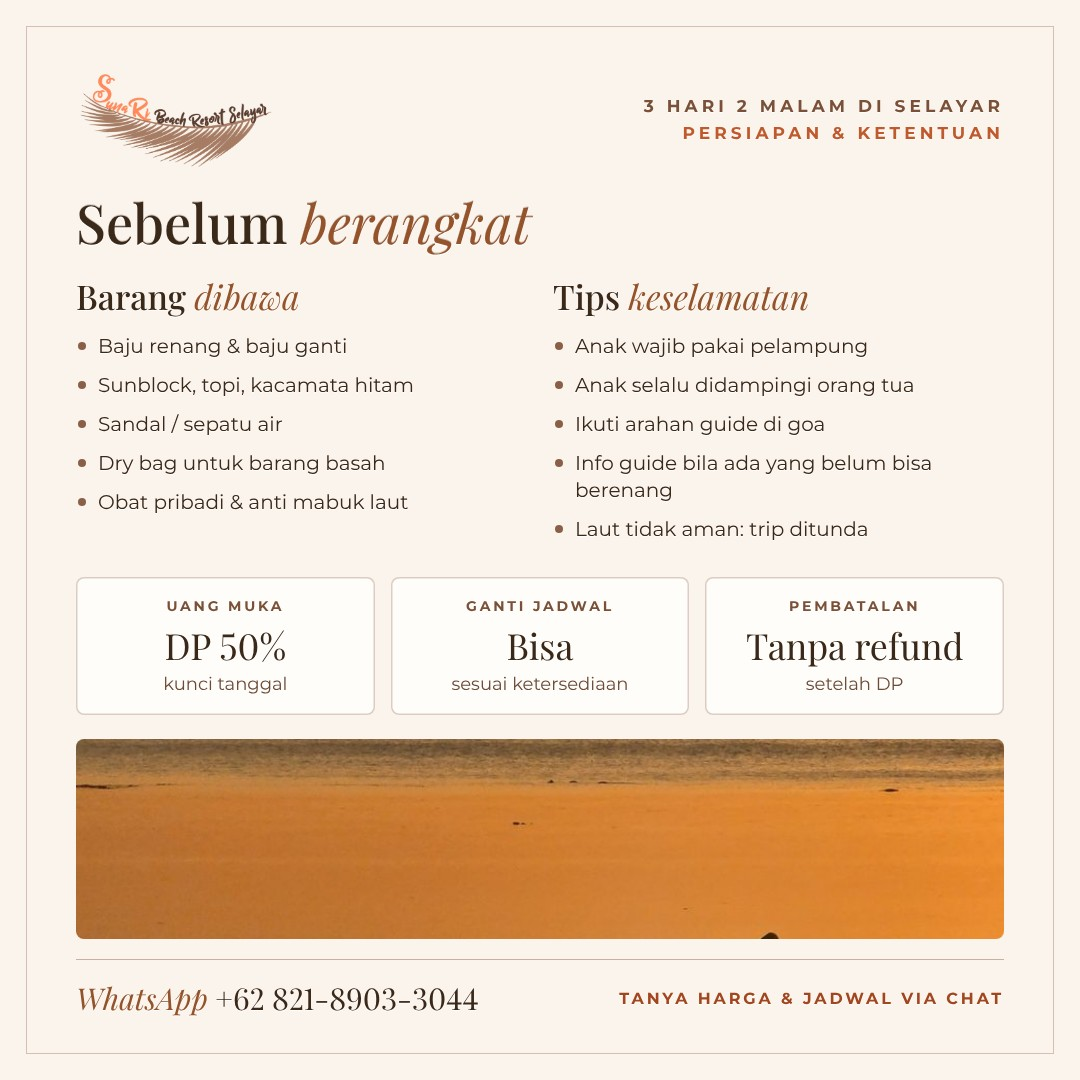
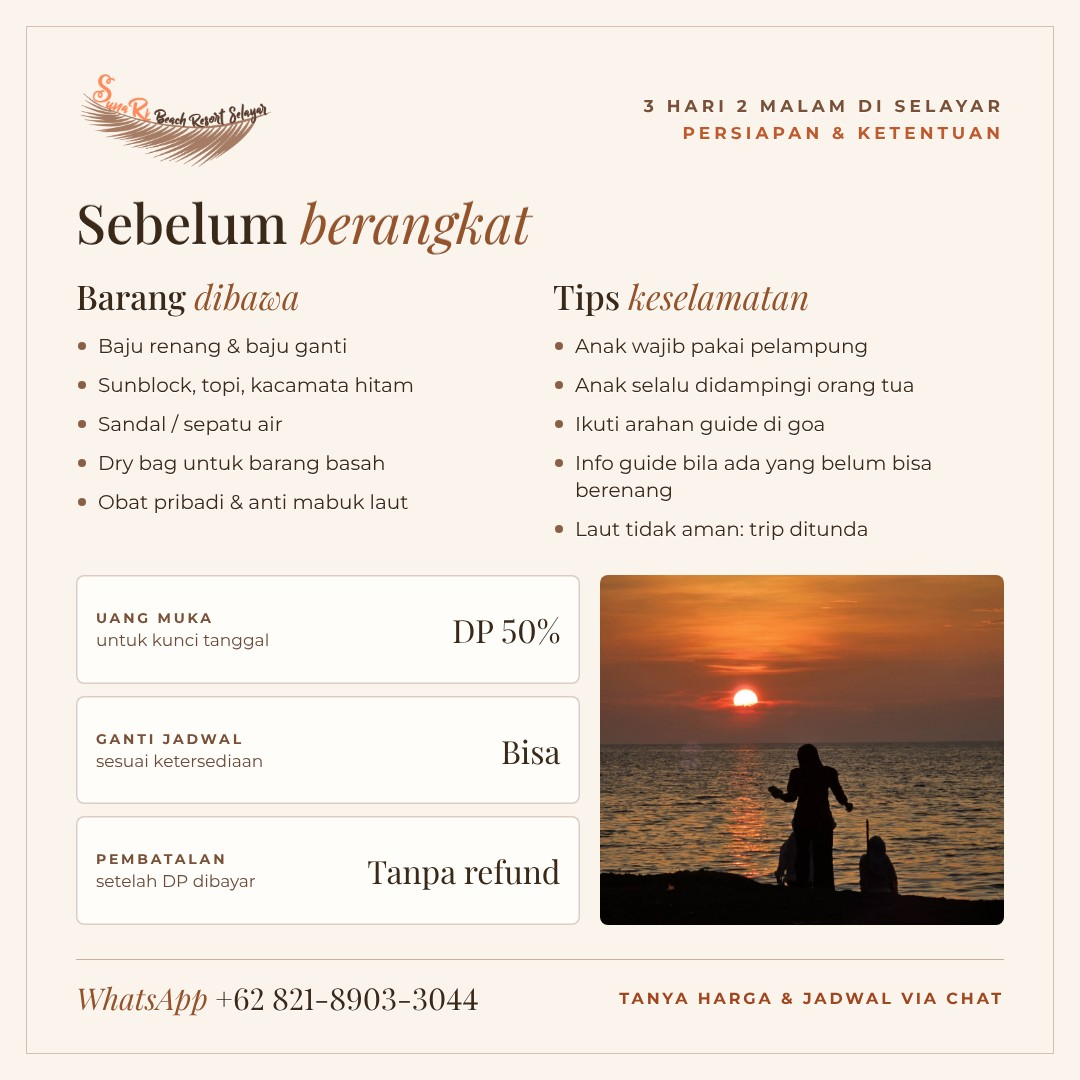
Katalog WA gambar 9: foto siluet tamu & sunset, ketentuan jadi kolom kiri
Claude-Session: https://claude.ai/code/session_01KeLc5eBGUnchV5ne3wvwHX

Changed region(s): [[0.0611, 0.5194, 0.9472, 0.8861], [0.0917, 0.55, 0.275, 0.6417], [0.3361, 0.5194, 0.3667, 0.55]]

diff --git a/whatsapp/katalog-paket-bahuluang/katalog.html b/whatsapp/katalog-paket-bahuluang/katalog.html
@@ -101,6 +101,13 @@ body{background:#ccc;font-family:Montserrat,sans-serif;color:#3A2819;-webkit-fon
 .c2 h3 i{color:#94532B}
 .c2 ul{list-style:none} .c2 li{font-size:20px;line-height:1.35;padding:6px 0 6px 22px;position:relative}
 .c2 li::before{content:"";position:absolute;left:2px;top:15px;width:8px;height:8px;border-radius:50%;background:#8A5F48}
+.tb{display:grid;grid-template-columns:1.25fr 1fr;gap:20px;margin-top:26px;height:350px}
+.tl2{display:flex;flex-direction:column;gap:12px}
+.tl2>div{flex:1;display:flex;align-items:center;justify-content:space-between;gap:12px;padding:0 20px;border-radius:8px;background:#FFFDF9;box-shadow:inset 0 0 0 1.5px rgba(138,95,72,.3)}
+.tl2 .k{font-size:14px;font-weight:700;letter-spacing:.2em;color:#7A5038}
+.tl2 .s{font-size:17px;color:#6B4A37;margin-top:3px}
+.tl2 .v{font-family:'Playfair Display',serif;font-size:32px;white-space:nowrap}
+.tp{border-radius:8px;overflow:hidden}
 .terms{display:grid;grid-template-columns:repeat(3,1fr);gap:16px;margin-top:28px}
 .terms>div{text-align:center;padding:20px 12px;border-radius:8px;background:#FFFDF9;box-shadow:inset 0 0 0 1.5px rgba(138,95,72,.3)}
 .terms .k{font-size:14px;font-weight:700;letter-spacing:.2em;color:#7A5038}
@@ -109,4 +116,4 @@ body{background:#ccc;font-family:Montserrat,sans-serif;color:#3A2819;-webkit-fon
 </style></head><body><div class="sq cover"><div class="frame"></div><div class="bg"><img class="ph" src="../../services/paket-photos/hero.jpg" style="object-position:center 55%"></div><div class="shade"></div>
 <div class="top"><img src="../../assets/logo-sunari-cream.png"></div>
 <div class="txt"><div class="k">SUNARI BEACH RESORT SELAYAR</div><div class="t serif">3 Hari 2 Malam<br>di Selayar</div><div class="s serif">Sehari ke Bahuluang</div>
-<div class="chips"><span>Keluarga 4 Dewasa + 2 Anak</span><span>Semua sudah termasuk</span></div></div></div><div class="sq "><div class="frame"></div><div class="pad"><div class="head"><img src="../../assets/logo-sunari-color.png"><div class="caps">3 Hari 2 Malam di Selayar<br><span style="color:#C0592C">Yang termasuk</span></div></div><div class="h1 serif" style="font-size:58px;margin-top:30px">Semua sudah <span class="it">kami siapkan</span></div><div class="grid2"><div class="it2"><div class="ic "><svg viewBox="0 0 24 24"><path d="M3 11l9-7 9 7"/><path d="M5 10v10h14V10"/><path d="M10 20v-6h4v6"/></svg></div><div><b>Family Superior Bungalow</b><span>2 malam, rumah dua lantai</span></div></div><div class="it2"><div class="ic "><svg viewBox="0 0 24 24"><path d="M7 3v8M5 3v5a2 2 0 004 0V3M7 11v10"/><path d="M17 3c-2 0-3 3-3 6s1 4 3 4v8"/></svg></div><div><b>Welcome drink &amp; 8x makan</b><span>Breakfast, lunch, afternoon tea, dinner</span></div></div><div class="it2"><div class="ic b"><svg viewBox="0 0 24 24"><path d="M3 16v-4l2-5h14l2 5v4z"/><circle cx="7.5" cy="17" r="1.8"/><circle cx="16.5" cy="17" r="1.8"/></svg></div><div><b>Antar-jemput</b><span>Bandara / pelabuhan, pergi &amp; pulang</span></div></div><div class="it2"><div class="ic b"><svg viewBox="0 0 24 24"><path d="M3 15h18l-3 5H6z"/><path d="M12 3v12M12 4l6 9h-6"/></svg></div><div><b>Kapal &amp; mobil trip</b><span>Resort ⇄ dermaga ⇄ Pulau Bahuluang</span></div></div><div class="it2"><div class="ic c"><svg viewBox="0 0 24 24"><circle cx="12" cy="8" r="4"/><path d="M4 21c0-4 4-6 8-6s8 2 8 6"/></svg></div><div><b>Guide &amp; tim</b><span>Mendampingi sepanjang trip</span></div></div><div class="it2"><div class="ic c"><svg viewBox="0 0 24 24"><path d="M3 12c3-5 10-5 14 0-4 5-11 5-14 0z"/><path d="M17 12l4-3v6z"/></svg></div><div><b>Alat snorkeling &amp; paddleboard</b><span>Masker, snorkel, fins, pelampung</span></div></div><div class="it2"><div class="ic "><svg viewBox="0 0 24 24"><path d="M3 8a2 2 0 002-2h14a2 2 0 002 2v2a2 2 0 000 4v2a2 2 0 00-2 2H5a2 2 0 00-2-2v-2a2 2 0 000-4z"/><path d="M14 6v12"/></svg></div><div><b>Tiket masuk</b><span>Semua lokasi wisata</span></div></div><div class="it2"><div class="ic "><svg viewBox="0 0 24 24"><rect x="3" y="7" width="18" height="13" rx="2"/><circle cx="12" cy="13.5" r="3.5"/><path d="M8 7l1.5-3h5L16 7"/></svg></div><div><b>Dokumentasi</b><span>Drone, DSLR, underwater · file mentah via Google Drive</span></div></div></div></div><div class="foot"><div class="wa"><i>WhatsApp</i> +62 821-8903-3044</div><div class="tag">Tanya harga &amp; jadwal via chat</div></div></div><div class="sq "><div class="frame"></div><div class="pad"><div class="head"><img src="../../assets/logo-sunari-color.png"><div class="caps">Sehari ke Bahuluang<br><span style="color:#C0592C">Destinasi trip</span></div></div><div class="h1 serif" style="font-size:58px;margin-top:26px">Empat sorotan <span class="it">Pulau Bahuluang</span></div><div class="g4"><div><img class="ph" src="../../services/paket-photos/pantai.jpg" style="object-position:center 50%"><div class="lbl">Pantai Bone Bakka</div></div><div><img class="ph" src="../../services/paket-photos/gua.jpg" style="object-position:center 60%"><div class="lbl">Goa Lipang</div></div><div><img class="ph" src="../../services/paket-photos/karang.jpg" style="object-position:center 55%"><div class="lbl">Makam Karang</div></div><div><img class="ph" src="../../services/paket-photos/pasir.jpg" style="object-position:center 70%"><div class="lbl">Pasir Timbul</div></div></div></div><div class="foot"><div class="wa"><i>WhatsApp</i> +62 821-8903-3044</div><div class="tag">Tanya harga &amp; jadwal via chat</div></div></div><div class="sq "><div class="frame"></div><div class="pad"><div class="head"><img src="../../assets/logo-sunari-color.png"><div class="caps">3 Hari 2 Malam di Selayar<br><span style="color:#C0592C">Kedatangan Hari 1</span></div></div><div class="h1 serif" style="font-size:58px;margin-top:26px">Pilih <span class="it">cara tiba</span></div><div class="ab"><div class="opt a"><div class="tg"><b>A</b>Pesawat</div><div class="tm">07.00 – 08.00</div><ul><li>Dijemput di Bandara H. Aroeppala</li><li>Kamar siap: langsung check-in</li><li>Belum siap: titip barang &amp; santai di pantai</li><li>Welcome drink, lunch 12.30</li></ul></div><div class="or"><span>atau</span></div><div class="opt b"><div class="tg"><b>B</b>Ferri dari Bira</div><div class="tm">± 12.00</div><ul><li>Dijemput di Pelabuhan Pamatata</li><li>Mobil langsung ke resort</li><li>Welcome drink &amp; lunch setibanya</li></ul></div></div><div class="joinb"><span>▼ SETELAH TIBA, JADWAL SAMA UNTUK SEMUA TAMU</span></div><div class="note" style="margin-top:22px">Check-in <b>saat kamar siap</b>, paling lambat 14.00.</div></div><div class="foot"><div class="wa"><i>WhatsApp</i> +62 821-8903-3044</div><div class="tag">Tanya harga &amp; jadwal via chat</div></div></div><div class="sq "><div class="frame"></div><div class="pad"><div class="head"><img src="../../assets/logo-sunari-color.png"><div class="caps">3 Hari 2 Malam di Selayar<br><span style="color:#C0592C">Alur trip</span></div></div><div class="h1 serif" style="font-size:58px;margin-top:26px">Dari tiba <span class="it">sampai pulang</span></div><div class="days"><div class="day"><div class="hd"><span>HARI</span><b>1</b><span>TIBA &amp; SANTAI</span></div><ul><li class="k">Tiba: pesawat 07.00–08.00 atau ferri dari Bira ±12.00</li><li class="">Welcome drink &amp; lunch</li><li class="">Check-in saat kamar siap</li><li class="">Senja di pantai</li><li class="">Dinner</li></ul></div><div class="day"><div class="hd"><span>HARI</span><b>2</b><span>TRIP BAHULUANG</span></div><ul><li class="">07.00 breakfast, 08.00 berangkat</li><li class="k">Pantai Bone Bakka</li><li class="k">Goa Lipang</li><li class="k">Makam Karang</li><li class="k">Pasir Timbul</li><li class="">Afternoon tea &amp; dinner</li></ul></div><div class="day"><div class="hd"><span>HARI</span><b>3</b><span>PULANG</span></div><ul><li class="">06.00–07.00 check-out</li><li class="">Breakfast take away</li><li class="k">Diantar ke bandara / pelabuhan</li></ul></div></div><div class="note"><b>Catatan:</b> jadwal trip ke Bahuluang menyesuaikan kondisi pasang-surut air laut.</div></div><div class="foot"><div class="wa"><i>WhatsApp</i> +62 821-8903-3044</div><div class="tag">Tanya harga &amp; jadwal via chat</div></div></div><div class="sq "><div class="frame"></div><div class="pad"><div class="head"><img src="../../assets/logo-sunari-color.png"><div class="caps">Sehari ke Bahuluang<br><span style="color:#C0592C">Jadwal Hari 2</span></div></div><div class="h1 serif" style="font-size:54px;margin-top:22px">Sehari penuh <span class="it">di Bahuluang</span></div><div class="tl" style="margin-top:16px"><div class="r "><div class="t">07.00</div><div class="d"></div><div class="x"><b>Breakfast</b> <span>· di resort</span></div></div><div class="r "><div class="t">08.00</div><div class="d"></div><div class="x"><b>Berangkat ke dermaga</b> <span>· briefing keselamatan</span></div></div><div class="r "><div class="t">08.30</div><div class="d"></div><div class="x"><b>Menyeberang</b> <span>· kapal ke Pulau Bahuluang</span></div></div><div class="r k"><div class="t">10.00</div><div class="d"></div><div class="x"><b>Pantai Bone Bakka</b> <span>· paddleboard, foto drone &amp; DSLR</span></div></div><div class="r k"><div class="t">11.30</div><div class="d"></div><div class="x"><b>Goa Lipang</b> <span>· jelajah goa bersama guide</span></div></div><div class="r "><div class="t">13.00</div><div class="d"></div><div class="x"><b>Lunch di pulau</b></div></div><div class="r k"><div class="t">14.00</div><div class="d"></div><div class="x"><b>Makam Karang</b> <span>· snorkeling, kamera underwater</span></div></div><div class="r k"><div class="t">15.00</div><div class="d"></div><div class="x"><b>Pasir Timbul</b> <span>· pasir putih di tengah laut</span></div></div><div class="r "><div class="t">16.00</div><div class="d"></div><div class="x"><b>Kembali ke resort</b></div></div><div class="r "><div class="t">17.00</div><div class="d"></div><div class="x"><b>Afternoon tea</b></div></div><div class="r "><div class="t">19.00</div><div class="d"></div><div class="x"><b>Dinner</b></div></div></div><div class="note" style="margin-top:12px;font-size:19px;padding:10px 18px"><b>Catatan:</b> jadwal menyesuaikan kondisi pasang-surut air laut.</div></div><div class="foot"><div class="wa"><i>WhatsApp</i> +62 821-8903-3044</div><div class="tag">Tanya harga &amp; jadwal via chat</div></div></div><div class="sq "><div class="frame"></div><div class="pad"><div class="head"><img src="../../assets/logo-sunari-color.png"><div class="caps">SunaRi Beach Resort Selayar<br><span style="color:#C0592C">Penginapan</span></div></div><div class="h1 serif" style="font-size:58px;margin-top:26px">Family <span class="it">Superior Bungalow</span></div><div class="room"><div class="p"><img class="ph" src="../../services/paket-photos/bungalow.jpg"></div><div class="p"><img class="ph" src="../../services/paket-photos/kamar.jpg"></div></div><ul class="room" style="display:block;list-style:none;margin-top:20px"><li style="font-size:24px;line-height:1.4;padding:7px 0 7px 30px;position:relative"><span style="position:absolute;left:4px;top:18px;width:11px;height:11px;border-radius:50%;background:#D9703F"></span>Satu rumah dua lantai untuk 4 dewasa + 2 anak</li><li style="font-size:24px;line-height:1.4;padding:7px 0 7px 30px;position:relative"><span style="position:absolute;left:4px;top:18px;width:11px;height:11px;border-radius:50%;background:#D9703F"></span>2 kamar mandi, AC, Wi-Fi, teras pribadi</li><li style="font-size:24px;line-height:1.4;padding:7px 0 7px 30px;position:relative"><span style="position:absolute;left:4px;top:18px;width:11px;height:11px;border-radius:50%;background:#D9703F"></span>Di tepi Pantai Sunari, menghadap senja</li></ul></div><div class="foot"><div class="wa"><i>WhatsApp</i> +62 821-8903-3044</div><div class="tag">Sarapan setiap pagi</div></div></div><div class="sq "><div class="frame"></div><div class="pad"><div class="head"><img src="../../assets/logo-sunari-color.png"><div class="caps">3 Hari 2 Malam di Selayar<br><span style="color:#C0592C">Makan &amp; minum</span></div></div><div class="h1 serif" style="font-size:58px;margin-top:26px">Welcome drink <span class="it">&amp; 8x makan</span></div><table class="meal"><tr><th>Hari</th><th>Breakfast</th><th>Lunch</th><th>Afternoon tea</th><th>Dinner</th></tr><tr><td>Hari 1</td><td><span class="no">–</span></td><td><span class="ok">✓</span></td><td><span class="ok">✓</span></td><td><span class="ok">✓</span></td></tr><tr><td>Hari 2</td><td><span class="ok">✓</span></td><td><span class="ok">✓</span> <span style="font-size:17px">di pulau</span></td><td><span class="ok">✓</span></td><td><span class="ok">✓</span></td></tr><tr><td>Hari 3</td><td><span class="ok">✓</span> <span style="font-size:17px">take away</span></td><td><span class="no">–</span></td><td><span class="no">–</span></td><td><span class="no">–</span></td></tr></table><div class="ph2"><div><img class="ph" src="../../services/paket-photos/bakar.jpg" style="object-position:center 55%"></div><div><img class="ph" src="../../services/paket-photos/resto.jpg" style="object-position:center 60%"></div></div></div><div class="foot"><div class="wa"><i>WhatsApp</i> +62 821-8903-3044</div><div class="tag">Air minum selama trip</div></div></div><div class="sq "><div class="frame"></div><div class="pad"><div class="head"><img src="../../assets/logo-sunari-color.png"><div class="caps">3 Hari 2 Malam di Selayar<br><span style="color:#C0592C">Persiapan &amp; ketentuan</span></div></div><div class="h1 serif" style="font-size:54px;margin-top:22px">Sebelum <span class="it">berangkat</span></div><div class="c2"><div><h3>Barang <i>dibawa</i></h3><ul><li>Baju renang &amp; baju ganti</li><li>Sunblock, topi, kacamata hitam</li><li>Sandal / sepatu air</li><li>Dry bag untuk barang basah</li><li>Obat pribadi &amp; anti mabuk laut</li></ul></div><div><h3>Tips <i>keselamatan</i></h3><ul><li>Anak wajib pakai pelampung</li><li>Anak selalu didampingi orang tua</li><li>Ikuti arahan guide di goa</li><li>Info guide bila ada yang belum bisa berenang</li><li>Laut tidak aman: trip ditunda</li></ul></div></div><div class="terms"><div><div class="k">UANG MUKA</div><div class="v">DP 50%</div><div class="s">kunci tanggal</div></div><div><div class="k">GANTI JADWAL</div><div class="v">Bisa</div><div class="s">sesuai ketersediaan</div></div><div><div class="k">PEMBATALAN</div><div class="v">Tanpa refund</div><div class="s">setelah DP</div></div></div><div style="height:200px;border-radius:8px;overflow:hidden;margin-top:24px"><img class="ph" src="../../services/paket-photos/kayak.jpg" style="object-position:center 50%"></div></div><div class="foot"><div class="wa"><i>WhatsApp</i> +62 821-8903-3044</div><div class="tag">Tanya harga &amp; jadwal via chat</div></div></div><div class="sq "><div class="frame"></div><div class="pad"><div class="head"><img src="../../assets/logo-sunari-color.png"><div class="caps">3 Hari 2 Malam di Selayar<br><span style="color:#C0592C">Cara memesan</span></div></div><div class="h1 serif" style="font-size:58px;margin-top:26px">Pesan dalam <span class="it">3 langkah</span></div><ol class="steps"><li>Chat kami: sebutkan tanggal kedatangan dan jumlah tamu</li><li>Pilih kedatangan: pesawat atau ferri dari Bira</li><li>Kami kirim harga, ketersediaan, dan detail pembayaran</li></ol><div style="height:250px;border-radius:8px;overflow:hidden;margin-top:28px"><img class="ph" src="../../services/paket-photos/pasir2.jpg" style="object-position:center 60%"></div><div class="cta" style="margin-top:24px"><div class="t">Tanya harga &amp; jadwal</div><div class="w">WhatsApp +62 821-8903-3044</div></div></div></div></body></html>
+<div class="chips"><span>Keluarga 4 Dewasa + 2 Anak</span><span>Semua sudah termasuk</span></div></div></div><div class="sq "><div class="frame"></div><div class="pad"><div class="head"><img src="../../assets/logo-sunari-color.png"><div class="caps">3 Hari 2 Malam di Selayar<br><span style="color:#C0592C">Yang termasuk</span></div></div><div class="h1 serif" style="font-size:58px;margin-top:30px">Semua sudah <span class="it">kami siapkan</span></div><div class="grid2"><div class="it2"><div class="ic "><svg viewBox="0 0 24 24"><path d="M3 11l9-7 9 7"/><path d="M5 10v10h14V10"/><path d="M10 20v-6h4v6"/></svg></div><div><b>Family Superior Bungalow</b><span>2 malam, rumah dua lantai</span></div></div><div class="it2"><div class="ic "><svg viewBox="0 0 24 24"><path d="M7 3v8M5 3v5a2 2 0 004 0V3M7 11v10"/><path d="M17 3c-2 0-3 3-3 6s1 4 3 4v8"/></svg></div><div><b>Welcome drink &amp; 8x makan</b><span>Breakfast, lunch, afternoon tea, dinner</span></div></div><div class="it2"><div class="ic b"><svg viewBox="0 0 24 24"><path d="M3 16v-4l2-5h14l2 5v4z"/><circle cx="7.5" cy="17" r="1.8"/><circle cx="16.5" cy="17" r="1.8"/></svg></div><div><b>Antar-jemput</b><span>Bandara / pelabuhan, pergi &amp; pulang</span></div></div><div class="it2"><div class="ic b"><svg viewBox="0 0 24 24"><path d="M3 15h18l-3 5H6z"/><path d="M12 3v12M12 4l6 9h-6"/></svg></div><div><b>Kapal &amp; mobil trip</b><span>Resort ⇄ dermaga ⇄ Pulau Bahuluang</span></div></div><div class="it2"><div class="ic c"><svg viewBox="0 0 24 24"><circle cx="12" cy="8" r="4"/><path d="M4 21c0-4 4-6 8-6s8 2 8 6"/></svg></div><div><b>Guide &amp; tim</b><span>Mendampingi sepanjang trip</span></div></div><div class="it2"><div class="ic c"><svg viewBox="0 0 24 24"><path d="M3 12c3-5 10-5 14 0-4 5-11 5-14 0z"/><path d="M17 12l4-3v6z"/></svg></div><div><b>Alat snorkeling &amp; paddleboard</b><span>Masker, snorkel, fins, pelampung</span></div></div><div class="it2"><div class="ic "><svg viewBox="0 0 24 24"><path d="M3 8a2 2 0 002-2h14a2 2 0 002 2v2a2 2 0 000 4v2a2 2 0 00-2 2H5a2 2 0 00-2-2v-2a2 2 0 000-4z"/><path d="M14 6v12"/></svg></div><div><b>Tiket masuk</b><span>Semua lokasi wisata</span></div></div><div class="it2"><div class="ic "><svg viewBox="0 0 24 24"><rect x="3" y="7" width="18" height="13" rx="2"/><circle cx="12" cy="13.5" r="3.5"/><path d="M8 7l1.5-3h5L16 7"/></svg></div><div><b>Dokumentasi</b><span>Drone, DSLR, underwater · file mentah via Google Drive</span></div></div></div></div><div class="foot"><div class="wa"><i>WhatsApp</i> +62 821-8903-3044</div><div class="tag">Tanya harga &amp; jadwal via chat</div></div></div><div class="sq "><div class="frame"></div><div class="pad"><div class="head"><img src="../../assets/logo-sunari-color.png"><div class="caps">Sehari ke Bahuluang<br><span style="color:#C0592C">Destinasi trip</span></div></div><div class="h1 serif" style="font-size:58px;margin-top:26px">Empat sorotan <span class="it">Pulau Bahuluang</span></div><div class="g4"><div><img class="ph" src="../../services/paket-photos/pantai.jpg" style="object-position:center 50%"><div class="lbl">Pantai Bone Bakka</div></div><div><img class="ph" src="../../services/paket-photos/gua.jpg" style="object-position:center 60%"><div class="lbl">Goa Lipang</div></div><div><img class="ph" src="../../services/paket-photos/karang.jpg" style="object-position:center 55%"><div class="lbl">Makam Karang</div></div><div><img class="ph" src="../../services/paket-photos/pasir.jpg" style="object-position:center 70%"><div class="lbl">Pasir Timbul</div></div></div></div><div class="foot"><div class="wa"><i>WhatsApp</i> +62 821-8903-3044</div><div class="tag">Tanya harga &amp; jadwal via chat</div></div></div><div class="sq "><div class="frame"></div><div class="pad"><div class="head"><img src="../../assets/logo-sunari-color.png"><div class="caps">3 Hari 2 Malam di Selayar<br><span style="color:#C0592C">Kedatangan Hari 1</span></div></div><div class="h1 serif" style="font-size:58px;margin-top:26px">Pilih <span class="it">cara tiba</span></div><div class="ab"><div class="opt a"><div class="tg"><b>A</b>Pesawat</div><div class="tm">07.00 – 08.00</div><ul><li>Dijemput di Bandara H. Aroeppala</li><li>Kamar siap: langsung check-in</li><li>Belum siap: titip barang &amp; santai di pantai</li><li>Welcome drink, lunch 12.30</li></ul></div><div class="or"><span>atau</span></div><div class="opt b"><div class="tg"><b>B</b>Ferri dari Bira</div><div class="tm">± 12.00</div><ul><li>Dijemput di Pelabuhan Pamatata</li><li>Mobil langsung ke resort</li><li>Welcome drink &amp; lunch setibanya</li></ul></div></div><div class="joinb"><span>▼ SETELAH TIBA, JADWAL SAMA UNTUK SEMUA TAMU</span></div><div class="note" style="margin-top:22px">Check-in <b>saat kamar siap</b>, paling lambat 14.00.</div></div><div class="foot"><div class="wa"><i>WhatsApp</i> +62 821-8903-3044</div><div class="tag">Tanya harga &amp; jadwal via chat</div></div></div><div class="sq "><div class="frame"></div><div class="pad"><div class="head"><img src="../../assets/logo-sunari-color.png"><div class="caps">3 Hari 2 Malam di Selayar<br><span style="color:#C0592C">Alur trip</span></div></div><div class="h1 serif" style="font-size:58px;margin-top:26px">Dari tiba <span class="it">sampai pulang</span></div><div class="days"><div class="day"><div class="hd"><span>HARI</span><b>1</b><span>TIBA &amp; SANTAI</span></div><ul><li class="k">Tiba: pesawat 07.00–08.00 atau ferri dari Bira ±12.00</li><li class="">Welcome drink &amp; lunch</li><li class="">Check-in saat kamar siap</li><li class="">Senja di pantai</li><li class="">Dinner</li></ul></div><div class="day"><div class="hd"><span>HARI</span><b>2</b><span>TRIP BAHULUANG</span></div><ul><li class="">07.00 breakfast, 08.00 berangkat</li><li class="k">Pantai Bone Bakka</li><li class="k">Goa Lipang</li><li class="k">Makam Karang</li><li class="k">Pasir Timbul</li><li class="">Afternoon tea &amp; dinner</li></ul></div><div class="day"><div class="hd"><span>HARI</span><b>3</b><span>PULANG</span></div><ul><li class="">06.00–07.00 check-out</li><li class="">Breakfast take away</li><li class="k">Diantar ke bandara / pelabuhan</li></ul></div></div><div class="note"><b>Catatan:</b> jadwal trip ke Bahuluang menyesuaikan kondisi pasang-surut air laut.</div></div><div class="foot"><div class="wa"><i>WhatsApp</i> +62 821-8903-3044</div><div class="tag">Tanya harga &amp; jadwal via chat</div></div></div><div class="sq "><div class="frame"></div><div class="pad"><div class="head"><img src="../../assets/logo-sunari-color.png"><div class="caps">Sehari ke Bahuluang<br><span style="color:#C0592C">Jadwal Hari 2</span></div></div><div class="h1 serif" style="font-size:54px;margin-top:22px">Sehari penuh <span class="it">di Bahuluang</span></div><div class="tl" style="margin-top:16px"><div class="r "><div class="t">07.00</div><div class="d"></div><div class="x"><b>Breakfast</b> <span>· di resort</span></div></div><div class="r "><div class="t">08.00</div><div class="d"></div><div class="x"><b>Berangkat ke dermaga</b> <span>· briefing keselamatan</span></div></div><div class="r "><div class="t">08.30</div><div class="d"></div><div class="x"><b>Menyeberang</b> <span>· kapal ke Pulau Bahuluang</span></div></div><div class="r k"><div class="t">10.00</div><div class="d"></div><div class="x"><b>Pantai Bone Bakka</b> <span>· paddleboard, foto drone &amp; DSLR</span></div></div><div class="r k"><div class="t">11.30</div><div class="d"></div><div class="x"><b>Goa Lipang</b> <span>· jelajah goa bersama guide</span></div></div><div class="r "><div class="t">13.00</div><div class="d"></div><div class="x"><b>Lunch di pulau</b></div></div><div class="r k"><div class="t">14.00</div><div class="d"></div><div class="x"><b>Makam Karang</b> <span>· snorkeling, kamera underwater</span></div></div><div class="r k"><div class="t">15.00</div><div class="d"></div><div class="x"><b>Pasir Timbul</b> <span>· pasir putih di tengah laut</span></div></div><div class="r "><div class="t">16.00</div><div class="d"></div><div class="x"><b>Kembali ke resort</b></div></div><div class="r "><div class="t">17.00</div><div class="d"></div><div class="x"><b>Afternoon tea</b></div></div><div class="r "><div class="t">19.00</div><div class="d"></div><div class="x"><b>Dinner</b></div></div></div><div class="note" style="margin-top:12px;font-size:19px;padding:10px 18px"><b>Catatan:</b> jadwal menyesuaikan kondisi pasang-surut air laut.</div></div><div class="foot"><div class="wa"><i>WhatsApp</i> +62 821-8903-3044</div><div class="tag">Tanya harga &amp; jadwal via chat</div></div></div><div class="sq "><div class="frame"></div><div class="pad"><div class="head"><img src="../../assets/logo-sunari-color.png"><div class="caps">SunaRi Beach Resort Selayar<br><span style="color:#C0592C">Penginapan</span></div></div><div class="h1 serif" style="font-size:58px;margin-top:26px">Family <span class="it">Superior Bungalow</span></div><div class="room"><div class="p"><img class="ph" src="../../services/paket-photos/bungalow.jpg"></div><div class="p"><img class="ph" src="../../services/paket-photos/kamar.jpg"></div></div><ul class="room" style="display:block;list-style:none;margin-top:20px"><li style="font-size:24px;line-height:1.4;padding:7px 0 7px 30px;position:relative"><span style="position:absolute;left:4px;top:18px;width:11px;height:11px;border-radius:50%;background:#D9703F"></span>Satu rumah dua lantai untuk 4 dewasa + 2 anak</li><li style="font-size:24px;line-height:1.4;padding:7px 0 7px 30px;position:relative"><span style="position:absolute;left:4px;top:18px;width:11px;height:11px;border-radius:50%;background:#D9703F"></span>2 kamar mandi, AC, Wi-Fi, teras pribadi</li><li style="font-size:24px;line-height:1.4;padding:7px 0 7px 30px;position:relative"><span style="position:absolute;left:4px;top:18px;width:11px;height:11px;border-radius:50%;background:#D9703F"></span>Di tepi Pantai Sunari, menghadap senja</li></ul></div><div class="foot"><div class="wa"><i>WhatsApp</i> +62 821-8903-3044</div><div class="tag">Sarapan setiap pagi</div></div></div><div class="sq "><div class="frame"></div><div class="pad"><div class="head"><img src="../../assets/logo-sunari-color.png"><div class="caps">3 Hari 2 Malam di Selayar<br><span style="color:#C0592C">Makan &amp; minum</span></div></div><div class="h1 serif" style="font-size:58px;margin-top:26px">Welcome drink <span class="it">&amp; 8x makan</span></div><table class="meal"><tr><th>Hari</th><th>Breakfast</th><th>Lunch</th><th>Afternoon tea</th><th>Dinner</th></tr><tr><td>Hari 1</td><td><span class="no">–</span></td><td><span class="ok">✓</span></td><td><span class="ok">✓</span></td><td><span class="ok">✓</span></td></tr><tr><td>Hari 2</td><td><span class="ok">✓</span></td><td><span class="ok">✓</span> <span style="font-size:17px">di pulau</span></td><td><span class="ok">✓</span></td><td><span class="ok">✓</span></td></tr><tr><td>Hari 3</td><td><span class="ok">✓</span> <span style="font-size:17px">take away</span></td><td><span class="no">–</span></td><td><span class="no">–</span></td><td><span class="no">–</span></td></tr></table><div class="ph2"><div><img class="ph" src="../../services/paket-photos/bakar.jpg" style="object-position:center 55%"></div><div><img class="ph" src="../../services/paket-photos/resto.jpg" style="object-position:center 60%"></div></div></div><div class="foot"><div class="wa"><i>WhatsApp</i> +62 821-8903-3044</div><div class="tag">Air minum selama trip</div></div></div><div class="sq "><div class="frame"></div><div class="pad"><div class="head"><img src="../../assets/logo-sunari-color.png"><div class="caps">3 Hari 2 Malam di Selayar<br><span style="color:#C0592C">Persiapan &amp; ketentuan</span></div></div><div class="h1 serif" style="font-size:54px;margin-top:22px">Sebelum <span class="it">berangkat</span></div><div class="c2"><div><h3>Barang <i>dibawa</i></h3><ul><li>Baju renang &amp; baju ganti</li><li>Sunblock, topi, kacamata hitam</li><li>Sandal / sepatu air</li><li>Dry bag untuk barang basah</li><li>Obat pribadi &amp; anti mabuk laut</li></ul></div><div><h3>Tips <i>keselamatan</i></h3><ul><li>Anak wajib pakai pelampung</li><li>Anak selalu didampingi orang tua</li><li>Ikuti arahan guide di goa</li><li>Info guide bila ada yang belum bisa berenang</li><li>Laut tidak aman: trip ditunda</li></ul></div></div><div class="tb"><div class="tl2"><div><div><div class="k">UANG MUKA</div><div class="s">untuk kunci tanggal</div></div><div class="v">DP 50%</div></div><div><div><div class="k">GANTI JADWAL</div><div class="s">sesuai ketersediaan</div></div><div class="v">Bisa</div></div><div><div><div class="k">PEMBATALAN</div><div class="s">setelah DP dibayar</div></div><div class="v">Tanpa refund</div></div></div><div class="tp"><img class="ph" src="../../services/paket-photos/senja_siluet.jpg" style="object-position:center 72%"></div></div></div><div class="foot"><div class="wa"><i>WhatsApp</i> +62 821-8903-3044</div><div class="tag">Tanya harga &amp; jadwal via chat</div></div></div><div class="sq "><div class="frame"></div><div class="pad"><div class="head"><img src="../../assets/logo-sunari-color.png"><div class="caps">3 Hari 2 Malam di Selayar<br><span style="color:#C0592C">Cara memesan</span></div></div><div class="h1 serif" style="font-size:58px;margin-top:26px">Pesan dalam <span class="it">3 langkah</span></div><ol class="steps"><li>Chat kami: sebutkan tanggal kedatangan dan jumlah tamu</li><li>Pilih kedatangan: pesawat atau ferri dari Bira</li><li>Kami kirim harga, ketersediaan, dan detail pembayaran</li></ol><div style="height:250px;border-radius:8px;overflow:hidden;margin-top:28px"><img class="ph" src="../../services/paket-photos/pasir2.jpg" style="object-position:center 60%"></div><div class="cta" style="margin-top:24px"><div class="t">Tanya harga &amp; jadwal</div><div class="w">WhatsApp +62 821-8903-3044</div></div></div></div></body></html>

diff --git a/whatsapp/katalog-paket-bahuluang/build.py b/whatsapp/katalog-paket-bahuluang/build.py
@@ -177,6 +177,13 @@ CSS_ADD = """
 .c2 h3 i{color:#94532B}
 .c2 ul{list-style:none} .c2 li{font-size:20px;line-height:1.35;padding:6px 0 6px 22px;position:relative}
 .c2 li::before{content:"";position:absolute;left:2px;top:15px;width:8px;height:8px;border-radius:50%;background:#8A5F48}
+.tb{display:grid;grid-template-columns:1.25fr 1fr;gap:20px;margin-top:26px;height:350px}
+.tl2{display:flex;flex-direction:column;gap:12px}
+.tl2>div{flex:1;display:flex;align-items:center;justify-content:space-between;gap:12px;padding:0 20px;border-radius:8px;background:#FFFDF9;box-shadow:inset 0 0 0 1.5px rgba(138,95,72,.3)}
+.tl2 .k{font-size:14px;font-weight:700;letter-spacing:.2em;color:#7A5038}
+.tl2 .s{font-size:17px;color:#6B4A37;margin-top:3px}
+.tl2 .v{font-family:'Playfair Display',serif;font-size:32px;white-space:nowrap}
+.tp{border-radius:8px;overflow:hidden}
 .terms{display:grid;grid-template-columns:repeat(3,1fr);gap:16px;margin-top:28px}
 .terms>div{text-align:center;padding:20px 12px;border-radius:8px;background:#FFFDF9;box-shadow:inset 0 0 0 1.5px rgba(138,95,72,.3)}
 .terms .k{font-size:14px;font-weight:700;letter-spacing:.2em;color:#7A5038}
@@ -220,10 +227,9 @@ PREP = sq('<div class="pad">' + head("3 Hari 2 Malam di Selayar<br><span style=\
   + '</ul></div><div><h3>Tips <i>keselamatan</i></h3><ul>' + "".join(f"<li>{x}</li>" for x in [
       "Anak wajib pakai pelampung", "Anak selalu didampingi orang tua", "Ikuti arahan guide di goa", "Info guide bila ada yang belum bisa berenang", "Laut tidak aman: trip ditunda"])
   + '</ul></div></div>'
-  + '<div class="terms"><div><div class="k">UANG MUKA</div><div class="v">DP 50%</div><div class="s">kunci tanggal</div></div>'
-  + '<div><div class="k">GANTI JADWAL</div><div class="v">Bisa</div><div class="s">sesuai ketersediaan</div></div>'
-  + '<div><div class="k">PEMBATALAN</div><div class="v">Tanpa refund</div><div class="s">setelah DP</div></div></div>'
-  + f'<div style="height:200px;border-radius:8px;overflow:hidden;margin-top:24px"><img class="ph" src="{PH}kayak.jpg" style="object-position:center 50%"></div>'
+  + '<div class="tb"><div class="tl2">' + "".join(f'<div><div><div class="k">{k}</div><div class="s">{d}</div></div><div class="v">{v}</div></div>' for k, v, d in [
+      ("UANG MUKA", "DP 50%", "untuk kunci tanggal"), ("GANTI JADWAL", "Bisa", "sesuai ketersediaan"), ("PEMBATALAN", "Tanpa refund", "setelah DP dibayar")]) + '</div>'
+  + f'<div class="tp"><img class="ph" src="{PH}senja_siluet.jpg" style="object-position:center 72%"></div></div>'
   + '</div>' + foot())
 
 S = [S[0], S[1], S[2], ARR, S[3], DAY2, S[4], FOOD, PREP, S[5]]
